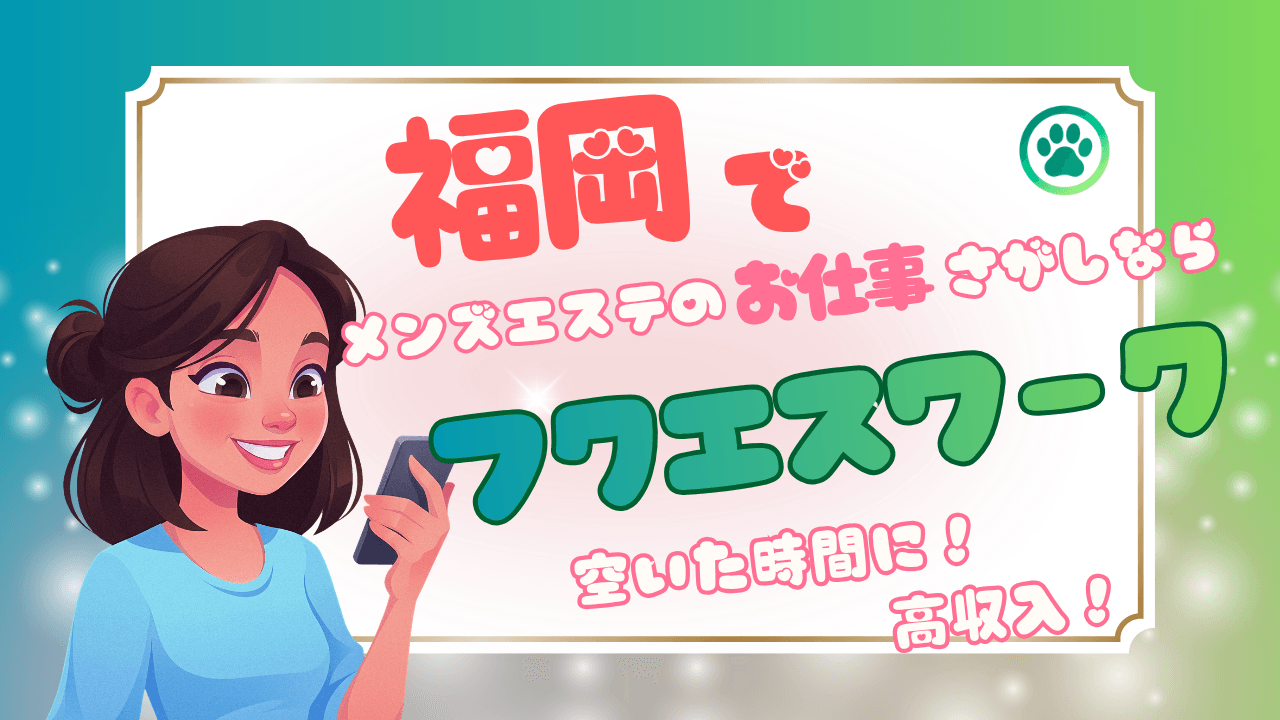
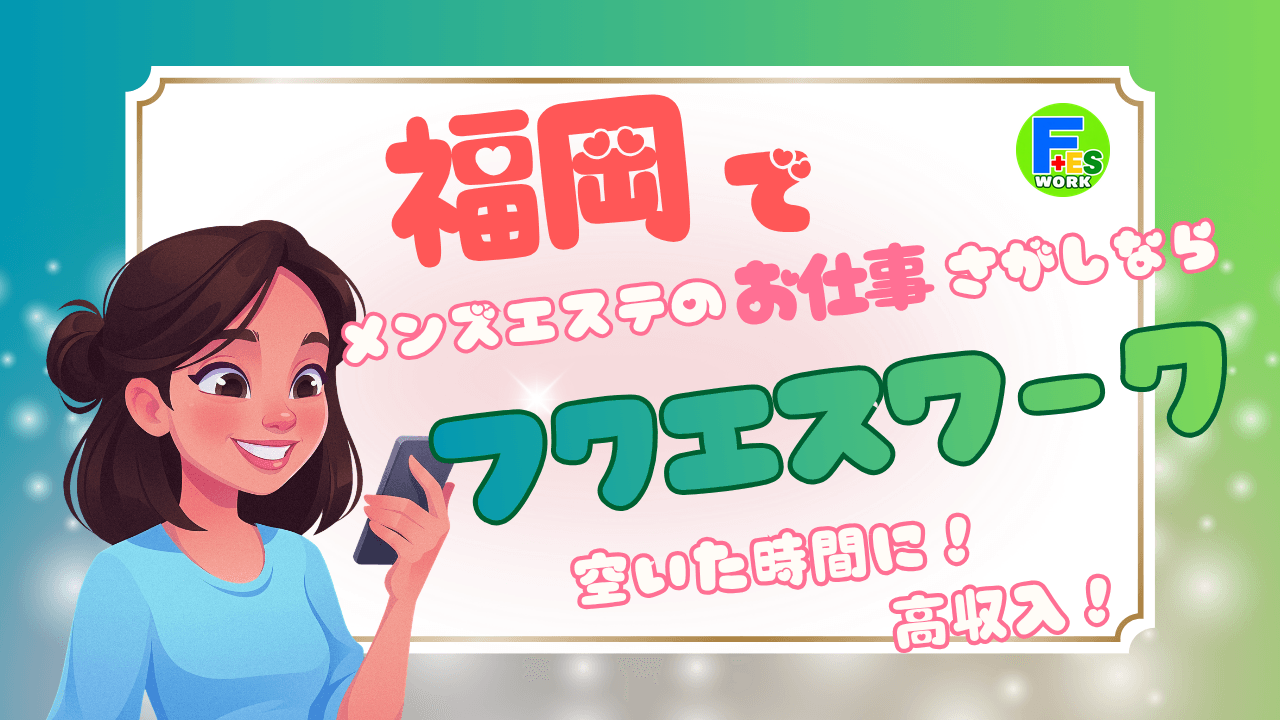
第480便: フクエスワークのロゴを新ロゴ（F+ES WORK）に差し替え（ロゴ・/jobsのファビコン・OGP・トップの画像の印）／求人の保存ボタンは未保存をうすく
Claude-Session: https://claude.ai/code/session_01X7WN6WZKa9byeFy55Kb1Gn

Changed region(s): [[0.7812, 0.1222, 0.875, 0.275]]

diff --git a/src/app/components/SaveButton.tsx b/src/app/components/SaveButton.tsx
@@ -304,7 +304,11 @@ export function SaveButton({
           height={size}
           draggable={false}
           className="block select-none pointer-events-none"
-          style={{ width: size, height: size, objectFit: 'contain' }}
+          style={{
+            width: size, height: size, objectFit: 'contain',
+            // ★ 第480便: フクエスワークの新ロゴ（F+ES WORK）は保存前後で絵が同じ。★ 星と同じく未保存はうすく透かす
+            ...(kind === 'job_salon' ? { opacity: isSavedNow ? 1 : STAR_UNSAVED_OPACITY, transition: 'opacity 0.2s ease' } : {}),
+          }}
         />
         )}
       </button>
